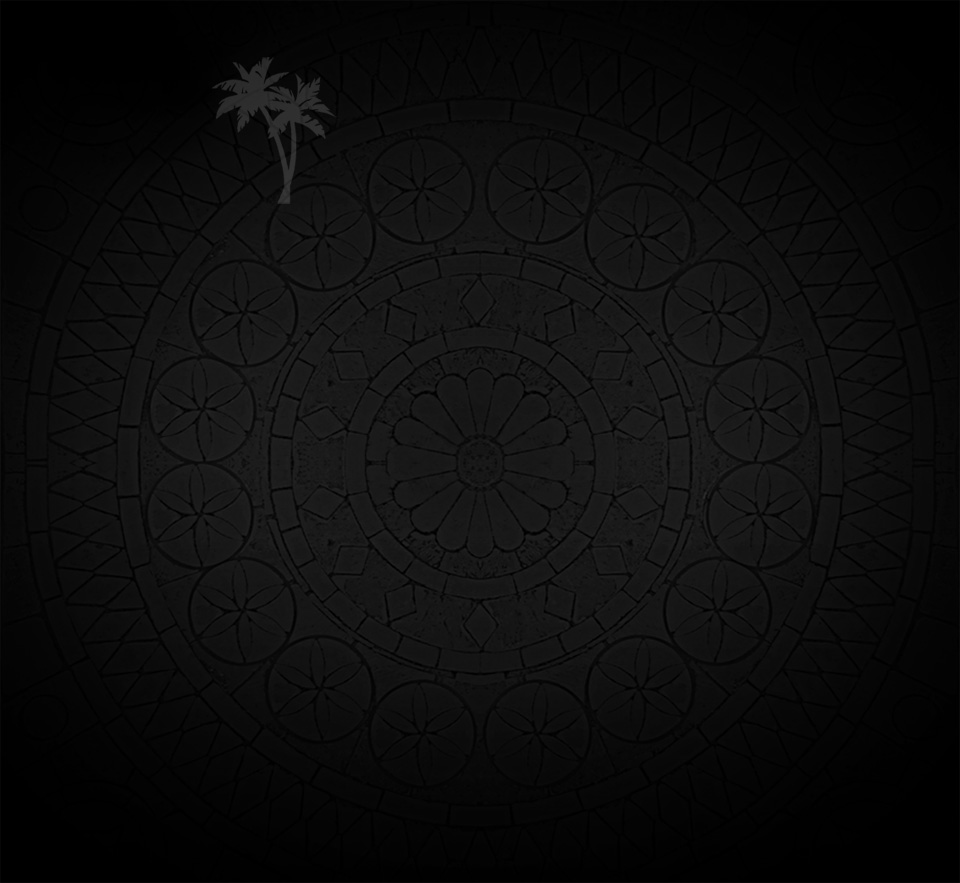
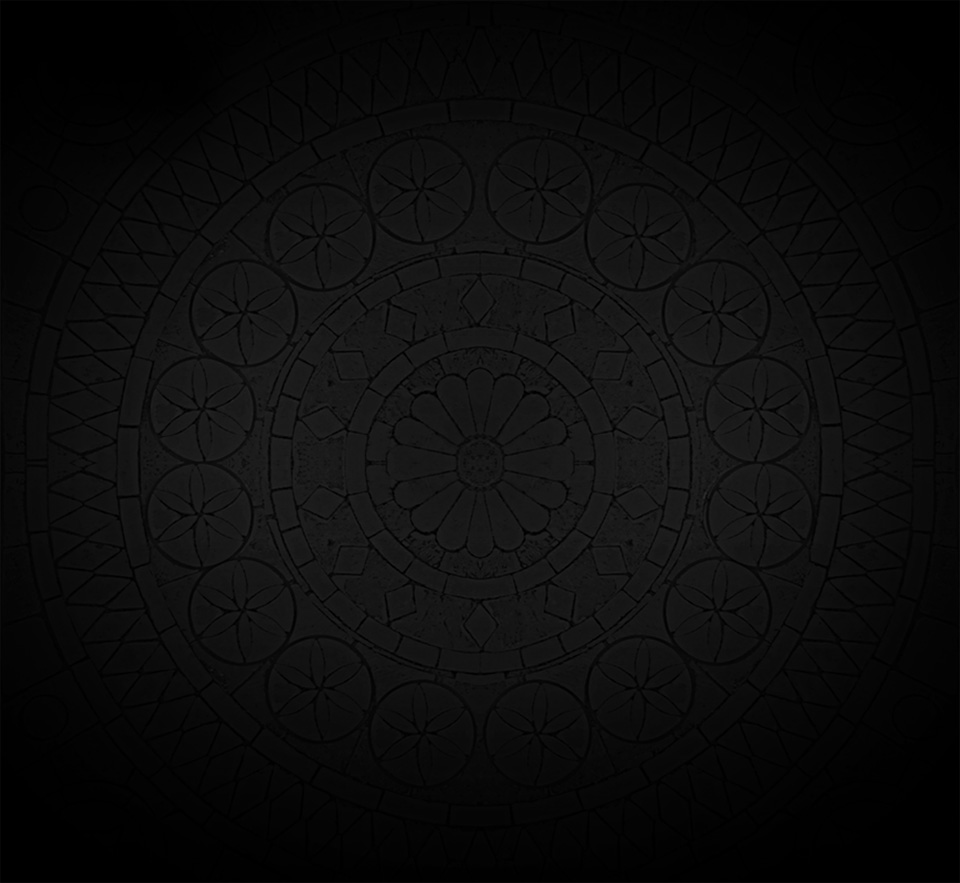
add homework3_bonus

Changed region(s): [[0.2188, 0.0612, 0.3438, 0.2446]]

diff --git a/homework3bonus/index.html b/homework3bonus/index.html
@@ -10,7 +10,7 @@
 <body>
 	<div class="conteiner">
 		<header>
-			<a href="#"><img src="img/logo4.png" alt="Asia holidays"></a>
+			<a href="#"><img src="img/logo.png" alt="Asia holidays"></a>
 			<p>Contact Us<br>
 				+12 34 567 8910<br>
 				info@asia-holidays.com</p>

diff --git a/homework3bonus/css/style.css b/homework3bonus/css/style.css
@@ -6,7 +6,7 @@ body{
 .conteiner{
 	width: 960px;
 	margin: auto;
-	background: url(../img/bg2.jpg) center center no-repeat;
+	background: url(../img/bg.jpg) center center no-repeat;
 	-webkit-background-size: cover;
 	background-size: cover;
 }

diff --git a/homework3/css/style.css b/homework3/css/style.css
@@ -1,6 +1,5 @@
 body{
 	background-color: #f9f9f9;
-
 }
 .container{
 	width: 70.71%;	
